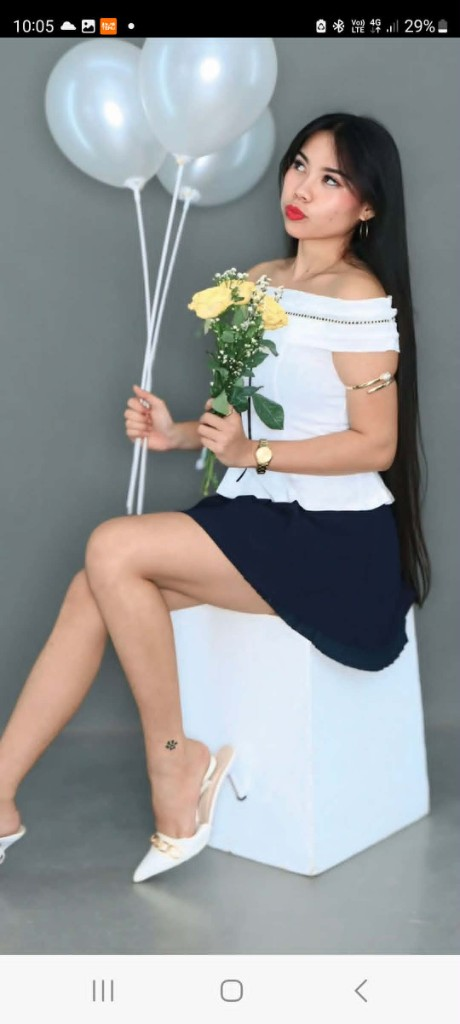
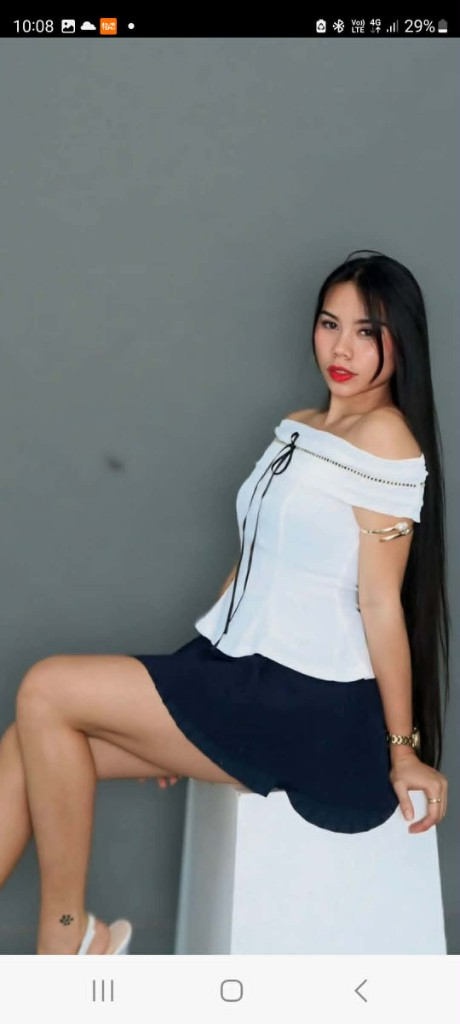
update

diff --git a/src/components/shirwell/home-content.tsx b/src/components/shirwell/home-content.tsx
@@ -66,9 +66,9 @@ export function HomeContent({ songs }: HomeContentProps) {
               <div className="relative mx-auto aspect-[3/4] w-full max-w-md overflow-hidden rounded-3xl border border-white/[0.08] bg-black/40 shadow-[0_0_60px_rgba(16,185,129,0.12)] lg:mx-0 lg:max-w-none">
                 <Image
                   src="/home/princess-flower-shop.png"
-                  alt="Princess — Shirwell talent with roses"
+                  alt="Princess — head of dance, business and accounting for Shirwell"
                   fill
-                  className="object-cover object-[center_15%]"
+                  className="object-cover object-[center_20%]"
                   sizes="(max-width: 1024px) 100vw, 50vw"
                 />
                 <div className="pointer-events-none absolute inset-x-0 bottom-0 h-24 bg-gradient-to-t from-black/70 to-transparent" />
@@ -91,9 +91,11 @@ export function HomeContent({ songs }: HomeContentProps) {
                 <p className="mt-4 text-base leading-relaxed text-zinc-300 sm:text-lg">
                   <span className="font-semibold text-[#FFC107]">Princess</span> is highly
                   talented: she holds a bachelor&apos;s degree, works as an accountant and
-                  business consultant, and is a standout dancer. She should be signed up to
-                  the company—traveling the world with Shirwell as one of the dancers and
-                  pitching in on concerts and all the other work behind the scenes.
+                  business consultant, and is a standout dancer. She will head the dancing
+                  team for concerts, and while Shirwell is traveling she will cover business
+                  consulting and accounting—plus whatever else the road throws at the
+                  company. One amazing person Shirwell found; outstanding talent like this
+                  is not simple to find.
                 </p>
                 <p className="mt-6">
                   <Link
